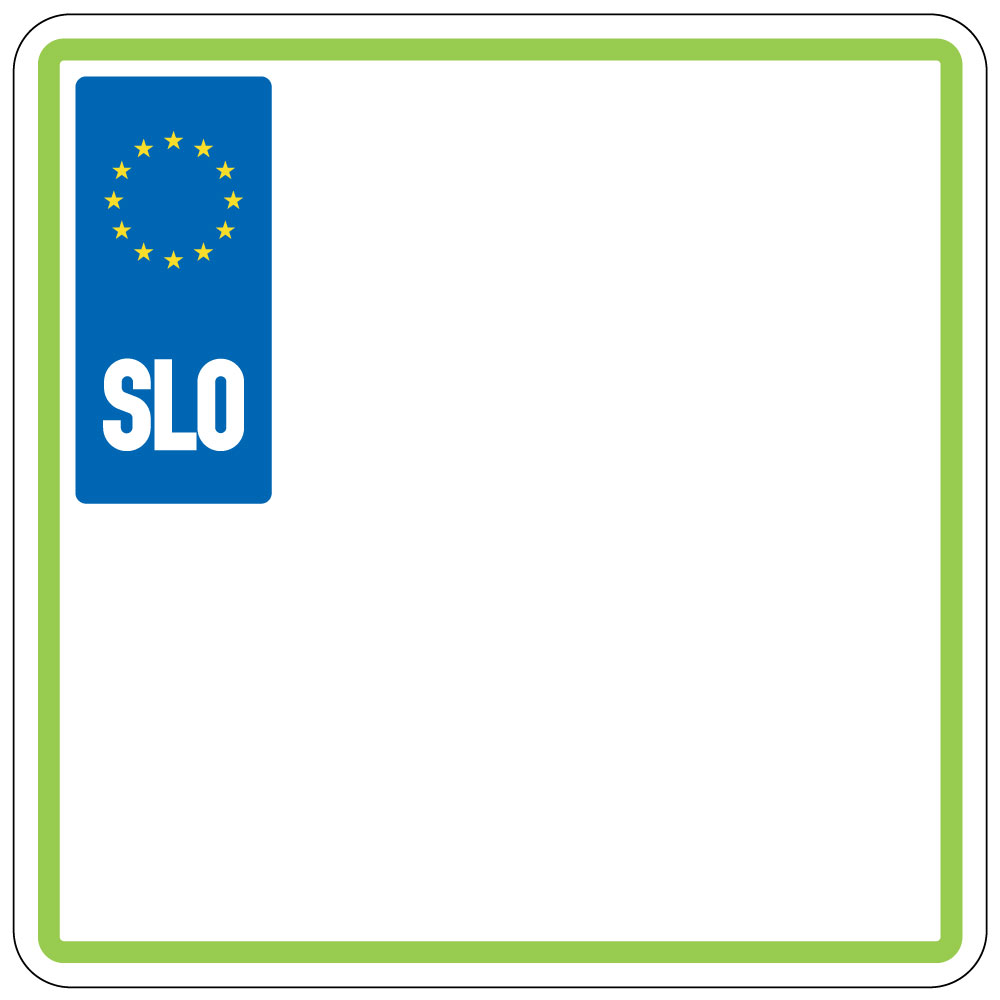
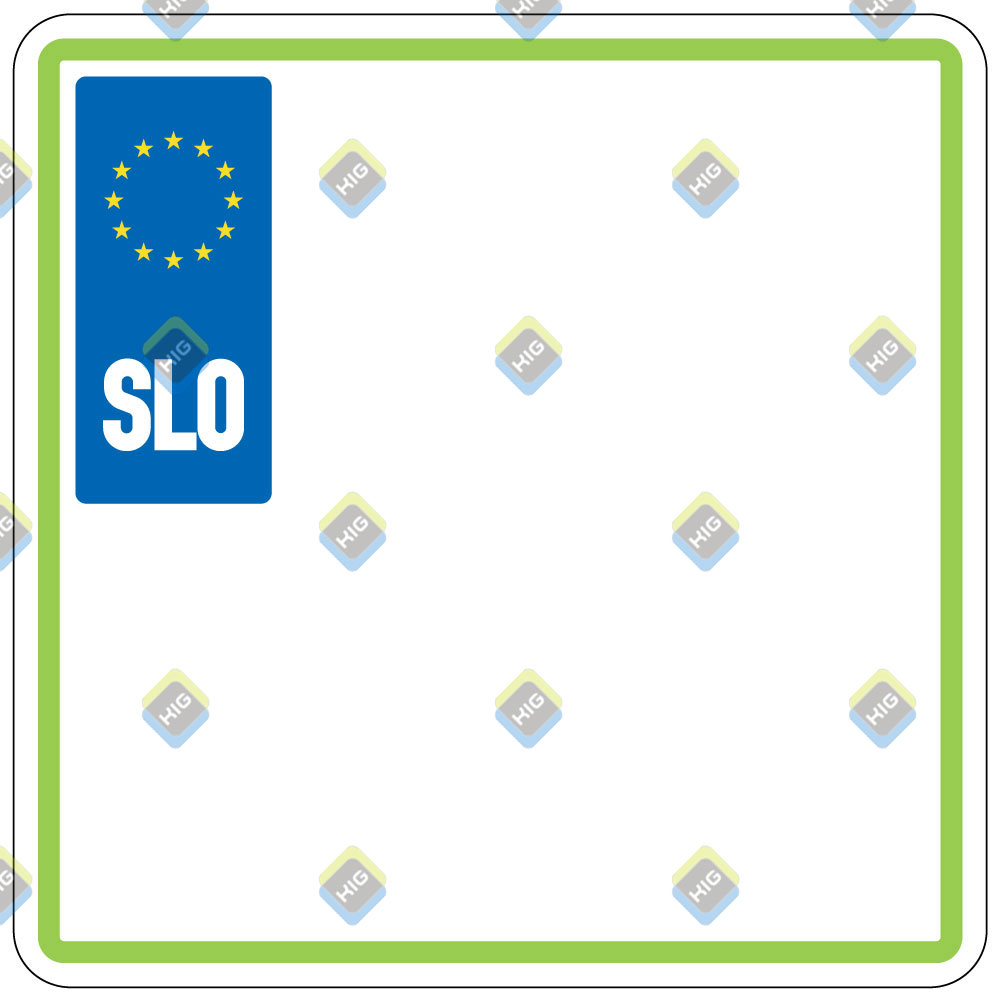
Fixed bg images for watermark, fixed Printing

diff --git a/app/assets/js/infrastructure/skripte.js b/app/assets/js/infrastructure/skripte.js
@@ -10,7 +10,7 @@ $(document).ready(function () {
 		"positionClass": "toast-top-right",
 		"preventDuplicates": true,
 		"onclick": null,
-		"showDuration": "300",
+		"showDuration": "900",
 		"hideDuration": "100",
 		"timeOut": "50"
 	};
@@ -176,41 +176,39 @@ $(document).ready(function () {
 		$('#k_obcine').append('<option abbr="' + value.abbr + '" value="' + value.value + '">' + value.name + ' (' + value.abbr + ')' + '</option>');
 	});
 
-	function validateInput(input) {
-		// Check if input contains at least one letter
-		if (!/[a-zA-Z]/.test(input)) {
-			return false;
-		}
+	// function validateInput(input) {
+	// 	// Check if input contains at least one letter
+	// 	if (!/[a-zA-Z]/.test(input)) {
+	// 		return false;
+	// 	}
 
-		// Check if input contains at most one dash and not at the beginning or the end
-		if ((input.indexOf('-') !== input.lastIndexOf('-')) || input.startsWith('-') || input.endsWith('-')) {
-			return false;
-		}
+	// 	// Check if input contains at most one dash and not at the beginning or the end
+	// 	if ((input.indexOf('-') !== input.lastIndexOf('-')) || input.startsWith('-') || input.endsWith('-')) {
+	// 		return false;
+	// 	}
 
-		return true;
-	}
+	// 	return true;
+	// }
 
 	// on change of k_input and if k_vanity to true put a minus after 3 character of k_input
 
-	$('#k_input_text').on('input change', function () {
-		var input = $(this).val();
+	// $('#k_input_text').on('input change', function () {
+	// 	var input = $(this).val();
 
-		// if vanity is false put a minus after 3 character of k_input
-		// if vanity is true minus is not needed
-		// if (!$('#k_vanity').is(':checked')) {
-		// 	if (input.length === 3 || input.length === 4) {
-		// 		input += '-';
-		// 	}
-		// }
+	// 	// if empty
 
-		$(this).val(input);
+	// 	if (input === '') {
+	// 		toastr.error('Vnesite veljavno registrsko oznako!');
+	// 	}
+		
+	// 	$(this).val(input);
 
-		if (!validateInput(input)) {
-			toastr.error('Vnesite veljavno registrsko oznako!');
-		} else {
-			toastr.success('Registrska oznaka je veljavna!');
-		}
-	});
+	// 	if (!validateInput(input)) {
+	// 		toastr.error('Vnesite veljavno registrsko oznako!');
+	// 	} else {
+	// 		toastr.success('Registrska oznaka je veljavna!');
+	// 	}
+	// });
 
 	// switch placeholder based on k_tip_tablice
 
@@ -340,6 +338,8 @@ $(document).ready(function () {
 	// I need to print the tablica holder - tablice-holder
 
 	function printDiv(divName = ".tablice-holder") {
+
+
 		html2canvas(document.querySelector(divName)).then(canvas => {
 			var dataUrl = canvas.toDataURL();
 	
@@ -350,7 +350,7 @@ $(document).ready(function () {
 			windowContent += '<style>@page { size: A4 landscape; }</style>';
 			windowContent += '</head>';
 			windowContent += '<body>'
-			windowContent += '<img src="' + dataUrl + '" style="width: 100%;">'; // Ensure the image scales to fit
+			windowContent += '<img src="' + dataUrl + '" style="width: 90%;">';
 			windowContent += '</body>';
 			windowContent += '</html>';
 	

diff --git a/app/assets/css/site.css b/app/assets/css/site.css
@@ -1000,6 +1000,15 @@ p.signin {
 
 /* Konfigurator */
 
+@media print {
+
+  #navbar, .nav-sidebar {
+    display: none;
+  }
+
+}
+
+
 .k-user-inputs-holder {
   display: flex;
   flex-direction: row;
@@ -1074,13 +1083,74 @@ p.signin {
   font-family: 'MOPED';
 }
 
+/* Grid for protection */
+
 .tablice-holder {
+  position: relative;
+  margin-bottom: 20px;
 }
+
+/* 
+.tablice-holder:after {
+  content: "";
+  position: absolute;
+  top: 0;
+  left: 0;
+  width: 100%;
+  height: 100%;
+  border-radius: 20px;
+
+  background: repeating-linear-gradient(
+  -45deg,
+  #ff01013b,
+  #00000011 20px,
+  #0000001f 20px,
+  #00000017 10px
+);
+} 
+
+*/
+
+/* .k-grid {
+  content: '';
+  position: absolute;
+  width: 100%;
+  height: 100%;
+  top: 0;
+  left: 0;
+  background: repeating-linear-gradient( -45deg, #ff01013b, #00000011 20px, #0000001f 20px, #00000017 10px ) !important;
+}
+
+.k-print-rel {
+  position: relative;
+}
+
+.k-print-grid {
+  content: '';
+  position: absolute;
+  width: 100%;
+  height: 100%;
+  top: 0;
+  left: 0;
+  background: repeating-linear-gradient( -45deg, #ff01013b, #00000011 20px, #0000001f 20px, #00000017 10px ) !important;
+
+} */
+
+
+.k-alert {
+  display: inline-block;
+}
+
+.k-info-holder {
+  display: block;
+}
+
 
 /* Main tablica graphic */
 
 #tablica-avto {
-  background: url('../img/tablice-ozadja/AVTO-tablica.jpg') no-repeat;
+  background-image: url('../img/tablice-ozadja/AVTO-tablica.jpg') !important;
+  background-repeat: no-repeat;
   aspect-ratio: 4.19/1;
   background-size: contain;
   width: 1000px;
@@ -1089,7 +1159,8 @@ p.signin {
 }
 
 #tablica-traktor {
-  background: url('../img/tablice-ozadja/Motor-traktor-tablica.jpg') no-repeat;
+  background-image: url('../img/tablice-ozadja/Motor-traktor-tablica.jpg');
+  background-repeat: no-repeat;
   aspect-ratio: 1/1;
   background-size: contain;
   width: 1000px;
@@ -1097,7 +1168,8 @@ p.signin {
 }
 
 #tablica-moped {
-  background: url('../img/tablice-ozadja/Scooter-tablica.jpg') no-repeat;
+  background-image: url('../img/tablice-ozadja/Scooter-tablica.jpg');
+  background-repeat: no-repeat;
   aspect-ratio: 1000/743;
   background-size: contain;
   width: 1000px;
@@ -1106,7 +1178,8 @@ p.signin {
 }
 
 #r4-katrca {
-  background: url('../img/tablice-ozadja/R4-tablica.jpg') no-repeat;
+  background-image: url('../img/tablice-ozadja/R4-tablica.jpg');
+  background-repeat: no-repeat;
   background-size: contain;
   width: 1000px;
   height: 652px;
